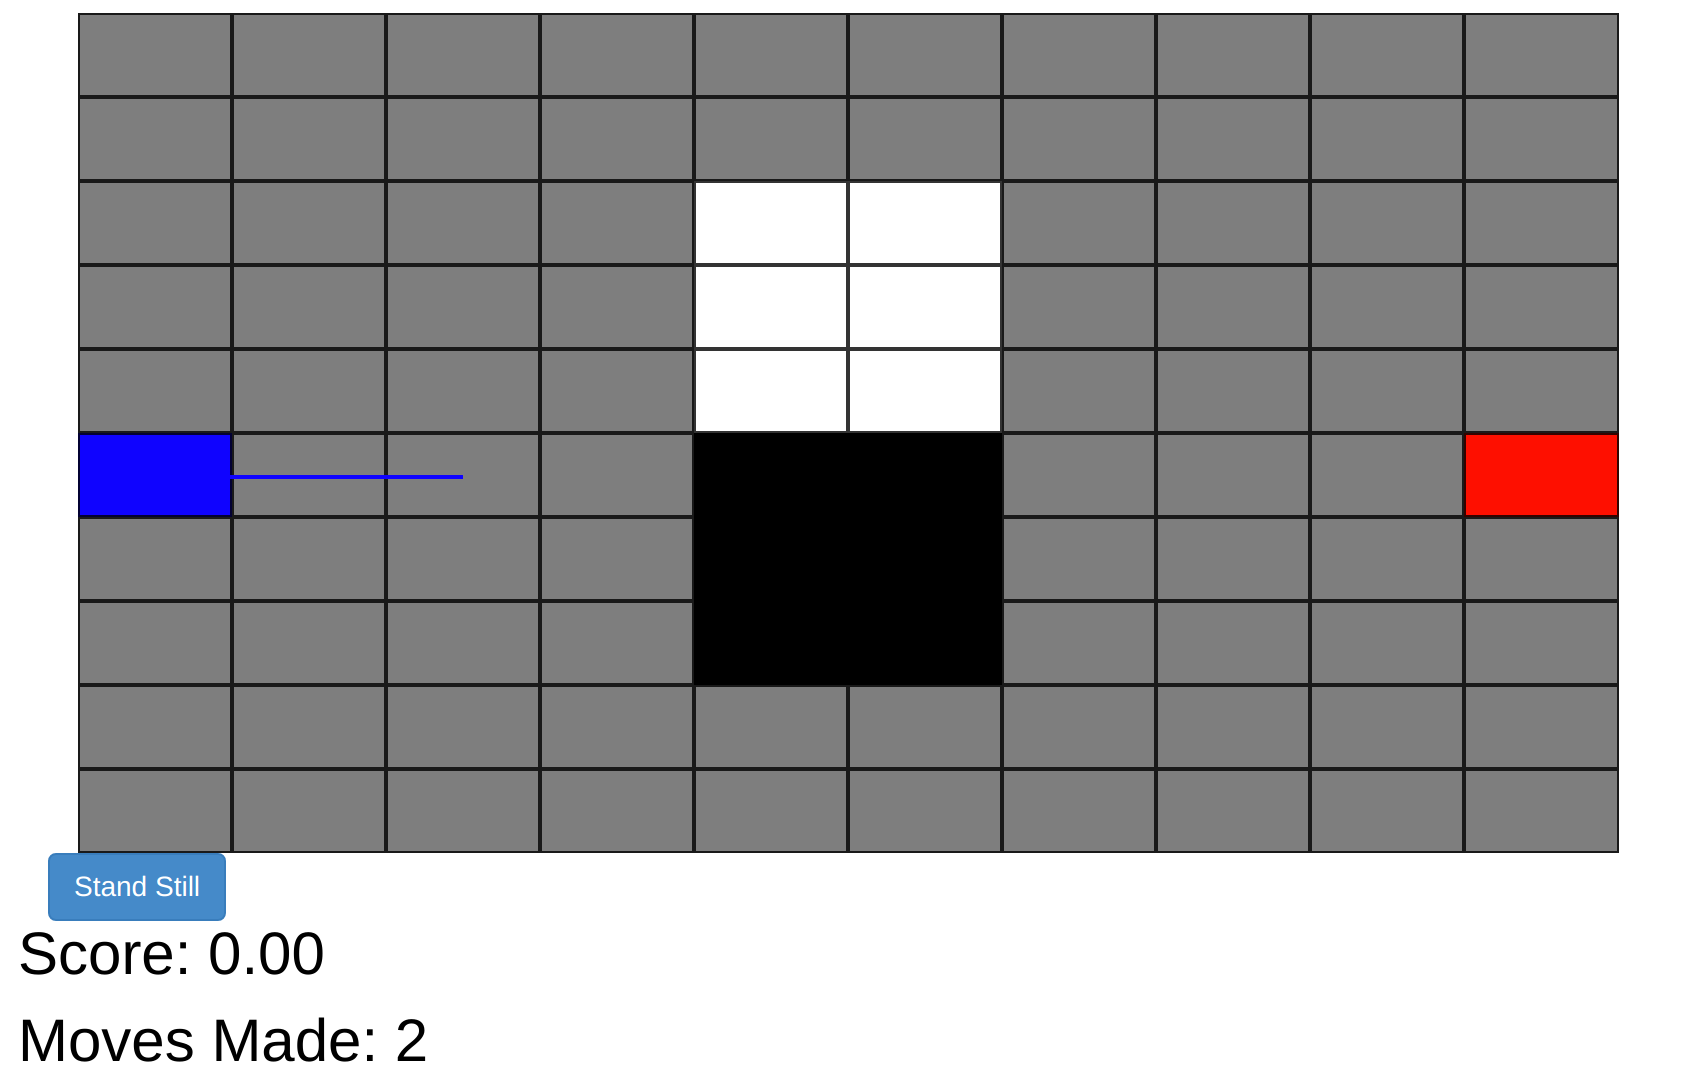
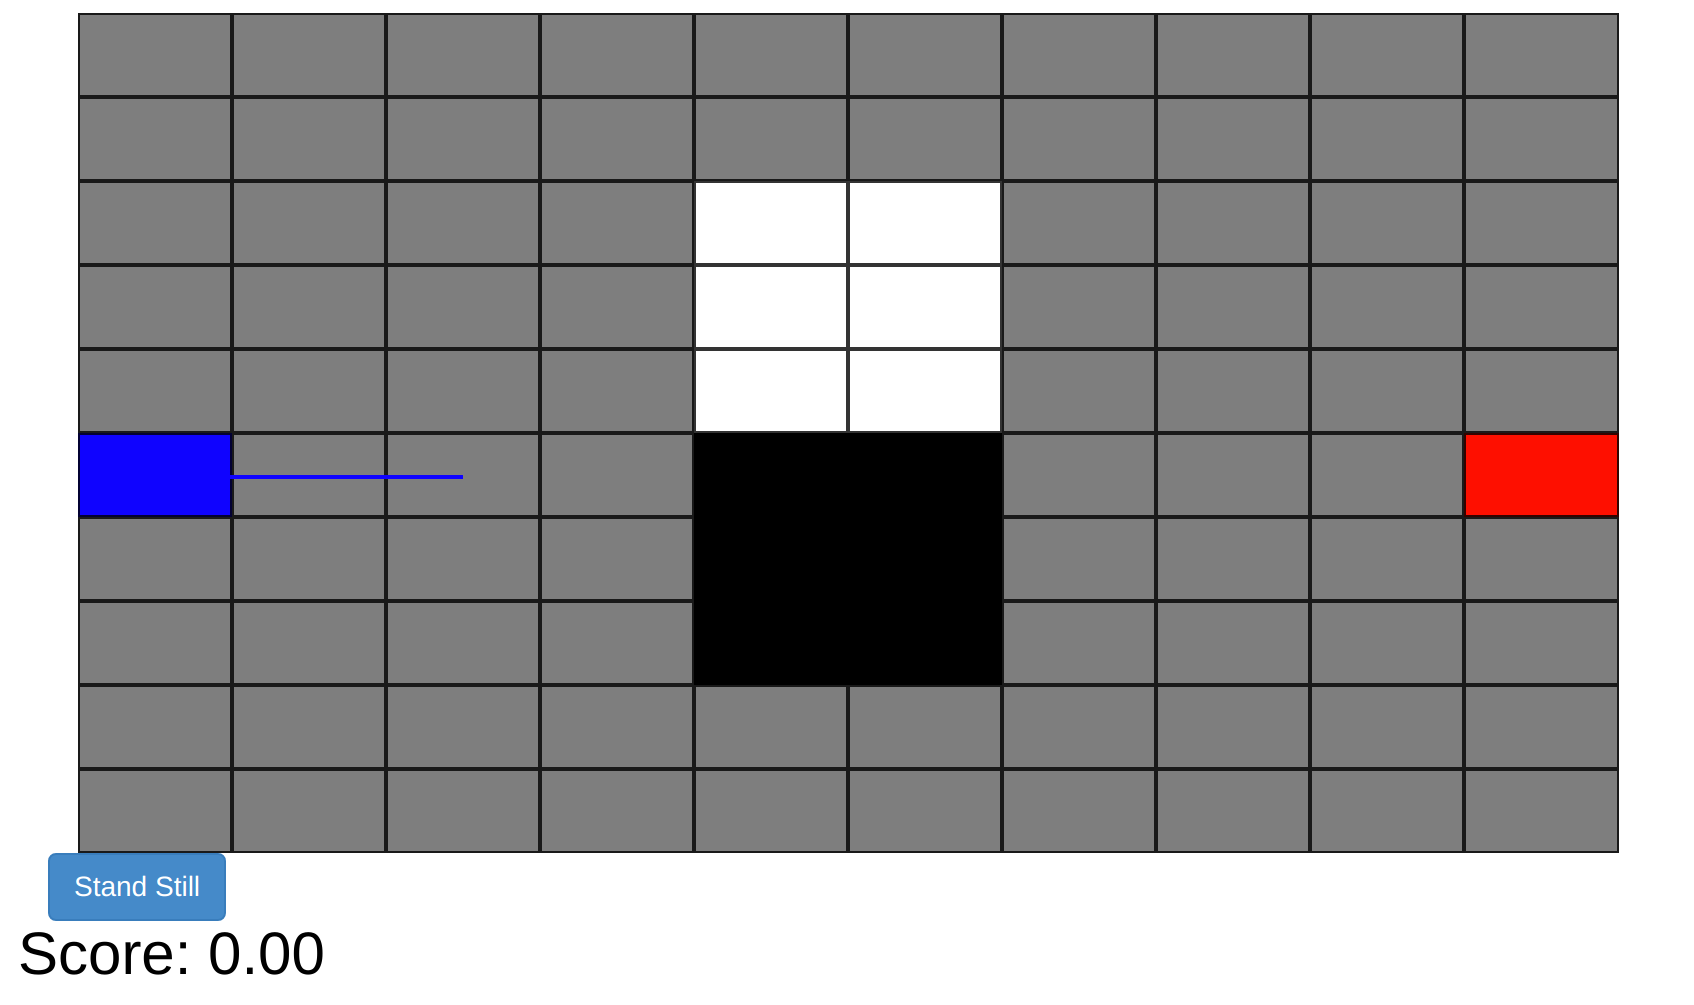
got rid of moves counter

diff --git a/gridworld/mturk-gridworld/templates/demonstrations.html b/gridworld/mturk-gridworld/templates/demonstrations.html
@@ -141,7 +141,7 @@
     <div class="row">
       <h1 style="display: inline">Score: </h1><h1 style="display: inline" id="score"></h1>
       <p></p>
-      <h1 style="display: inline">Moves Made: </h1><h1 style="display: inline" id="moves-made"></h1>
+      <!-- <h1 style="display: inline">Moves Made: </h1><h1 style="display: inline" id="moves-made"></h1> -->
     </div>
     <div class="row">
       <button type="button" class="btn btn-primary" id="clear" onclick="clearAll()">Clear All</button>

diff --git a/gridworld/mturk-gridworld/templates/practice.html b/gridworld/mturk-gridworld/templates/practice.html
@@ -141,7 +141,7 @@
     <div class="row">
       <h2 style="display: inline">Score: </h2><h2 style="display: inline" id="score"></h2>
       <p></p>
-      <h2 style="display: inline">Moves Made: </h2><h2 style="display: inline" id="moves-made"></h2>
+      <!-- <h2 style="display: inline">Moves Made: </h2><h2 style="display: inline" id="moves-made"></h2> -->
     </div>
     <div class="row">
       <button type="button" class="btn btn-primary" id="clear" onclick="clearAll()">Clear All</button>

diff --git a/gridworld/mturk-gridworld/static/js/task.js b/gridworld/mturk-gridworld/static/js/task.js
@@ -589,7 +589,7 @@ var Practice = function() {
     }
 
     updateMoves = function() {
-        d3.select("#moves-made").text(moves_made);
+        // d3.select("#moves-made").text(moves_made);
         return true;
     }
 
@@ -764,7 +764,7 @@ var Experiment = function() {
     }
 
     updateMoves = function() {
-        d3.select("#moves-made").text(moves_made);
+        // d3.select("#moves-made").text(moves_made);
         return true;
     }
 

diff --git a/gridworld/mturk-gridworld/templates/postquestionnaire.html b/gridworld/mturk-gridworld/templates/postquestionnaire.html
@@ -10,7 +10,7 @@
         <form id="postquiz" action="debrief" method="post">
             <!-- beginning of a question -->
             <div class="row question">
-                Leave any comments you have about the study here!
+                Leave any comments or suggestions you have about the study here!
                 <br>
                 <textarea id="comments"></textarea>
             </div>
